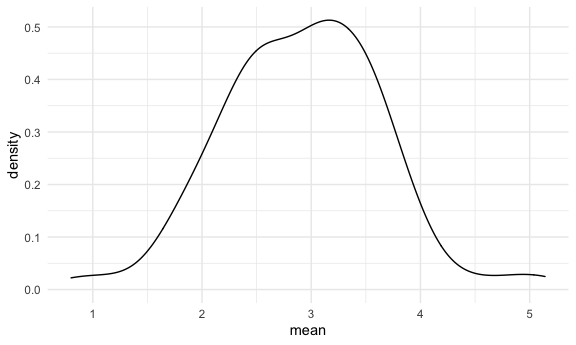
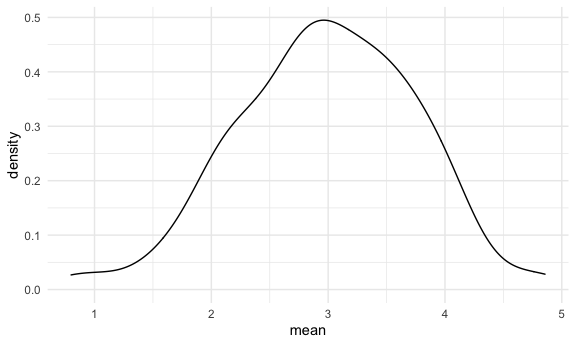
we did simulations!!!!!!!!!!!!11

diff --git a/simulation.md b/simulation.md
@@ -47,6 +47,10 @@ options(
 
 scale_color.discrete = scale_color_viridis_d
 scale_fill_discrete = scale_fill_viridis_d
+
+#every time when set up the random numbers,
+#give the same numbers each time
+set.seed(1)
 ```
 
 ## Let’s simulate something
@@ -78,7 +82,7 @@ sim_mean_sd(30)
     ## # A tibble: 1 × 2
     ##    mean    sd
     ##   <dbl> <dbl>
-    ## 1  3.63  4.42
+    ## 1  3.33  3.70
 
 ## Let’s simulate a lot
 
@@ -97,16 +101,16 @@ bind_rows(output)
     ## # A tibble: 100 × 2
     ##     mean    sd
     ##    <dbl> <dbl>
-    ##  1  3.45  3.40
-    ##  2  3.69  3.76
-    ##  3  4.14  4.13
-    ##  4  3.10  4.81
-    ##  5  3.50  4.25
-    ##  6  2.60  4.17
-    ##  7  2.99  4.03
-    ##  8  3.75  4.21
-    ##  9  3.67  4.09
-    ## 10  3.28  4.72
+    ##  1  3.53  3.18
+    ##  2  3.44  3.84
+    ##  3  3.45  3.53
+    ##  4  1.68  3.69
+    ##  5  3.95  4.22
+    ##  6  3.27  4.34
+    ##  7  2.05  4.05
+    ##  8  3.10  3.72
+    ##  9  3.55  4.11
+    ## 10  3.87  3.79
     ## # … with 90 more rows
 
 Let’s use a loop function!!!
@@ -138,7 +142,7 @@ simulation_results %>%
     ## # A tibble: 1 × 2
     ##   average_samp_mean sd_samp_mean
     ##               <dbl>        <dbl>
-    ## 1              2.92        0.729
+    ## 1              2.98        0.756
 
 ``` r
 simulation_results %>% 
@@ -146,3 +150,79 @@ simulation_results %>%
 ```
 
 <img src="simulation_files/figure-gfm/unnamed-chunk-5-2.png" width="90%" />
+
+## Let’s try other sample sizes
+
+``` r
+n_list = 
+  list(
+    "n = 30" = 30,
+    "n = 60" = 60,
+    "n = 120" = 120,
+    "n = 240" = 240
+  )
+
+output = vector("list", length = 4)
+
+#goal - output[[1]] = f(input[[1]])
+
+#1 - this method is redundant
+output[[1]] = rerun(100, sim_mean_sd(samp_size = n_list[[1]])) %>%  bind_rows()
+output[[2]] = rerun(100, sim_mean_sd(samp_size = n_list[[2]])) %>%  bind_rows()
+output[[3]] = rerun(100, sim_mean_sd(samp_size = n_list[[3]])) %>%  bind_rows()
+output[[4]] = rerun(100, sim_mean_sd(samp_size = n_list[[4]])) %>%  bind_rows()
+
+
+#2 - use a for lopp
+for (i in 1:4){
+  
+  output[[i]] = 
+    rerun(100, sim_mean_sd(samp_size = n_list[[i]])) %>% 
+    bind_rows()
+}
+```
+
+``` r
+sim_results = 
+  tibble(
+    sample_size = c(30, 60, 120, 240)
+  ) %>% 
+    mutate(
+      output_lists = map(.x = sample_size, ~ rerun(10, sim_mean_sd(.x))),
+      estimate_df = map(output_lists, bind_rows)
+    ) %>% 
+    select(-output_lists) %>% 
+    #expand the dfs
+    unnest(estimate_df)
+```
+
+Do some data frame things
+
+``` r
+sim_results %>% 
+  mutate(
+    sample_size = str_c("n = ", sample_size),
+    sample_size = fct_inorder(sample_size)
+  ) %>% 
+  ggplot(aes(x = sample_size, y = mean)) +
+  geom_violin()
+```
+
+<img src="simulation_files/figure-gfm/unnamed-chunk-8-1.png" width="90%" />
+
+``` r
+sim_results %>% 
+  group_by(sample_size) %>% 
+  summarize(
+    avg_samp_mean = mean(mean),
+    sd_samp_mean = sd(mean)
+  )
+```
+
+    ## # A tibble: 4 × 3
+    ##   sample_size avg_samp_mean sd_samp_mean
+    ##         <dbl>         <dbl>        <dbl>
+    ## 1          30          2.80        0.630
+    ## 2          60          3.17        0.401
+    ## 3         120          2.98        0.197
+    ## 4         240          2.97        0.196
